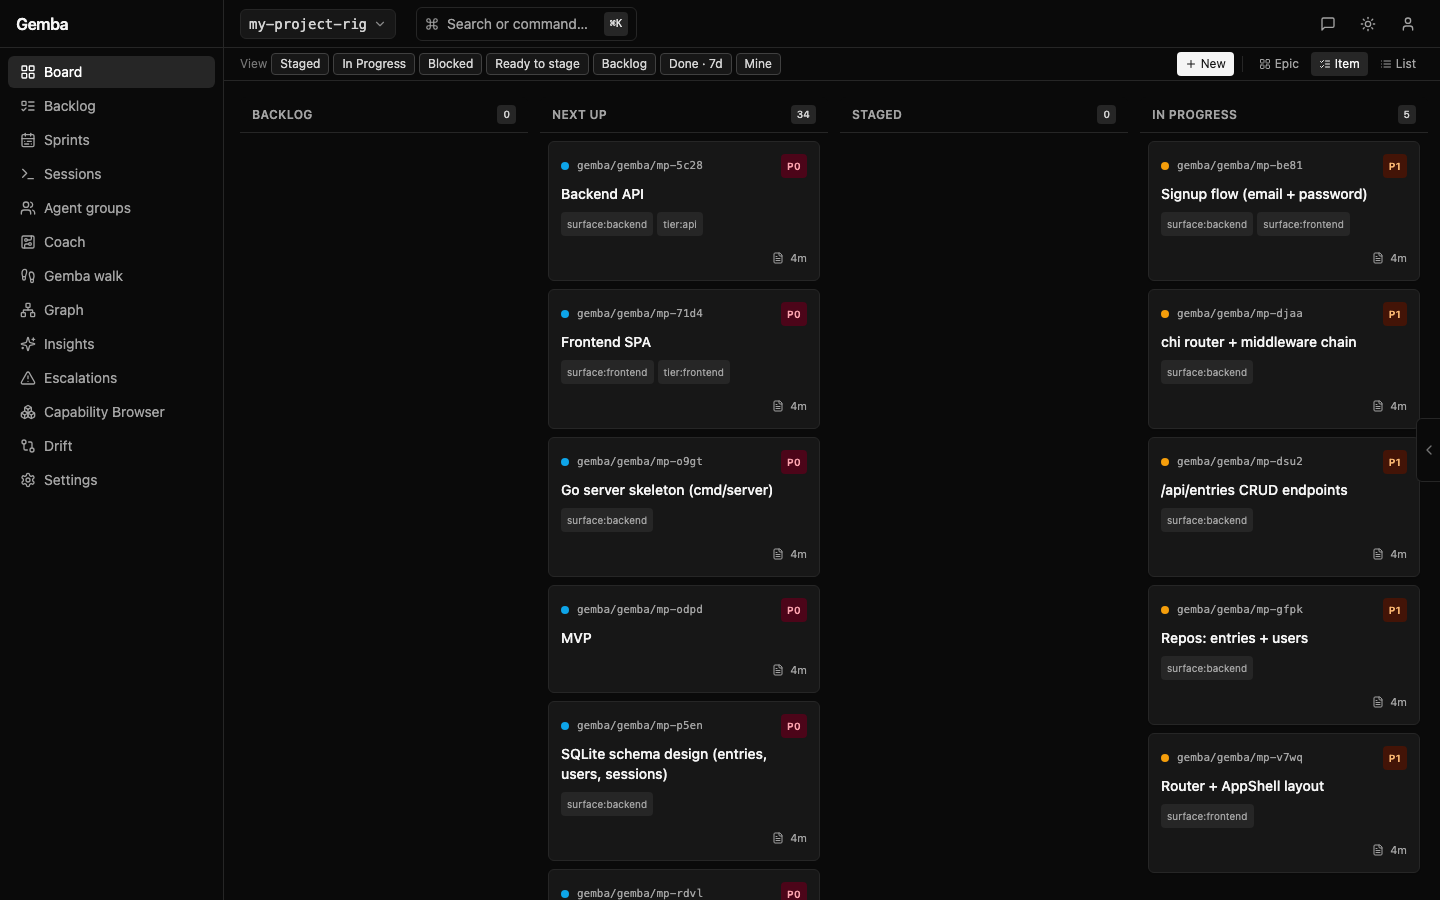
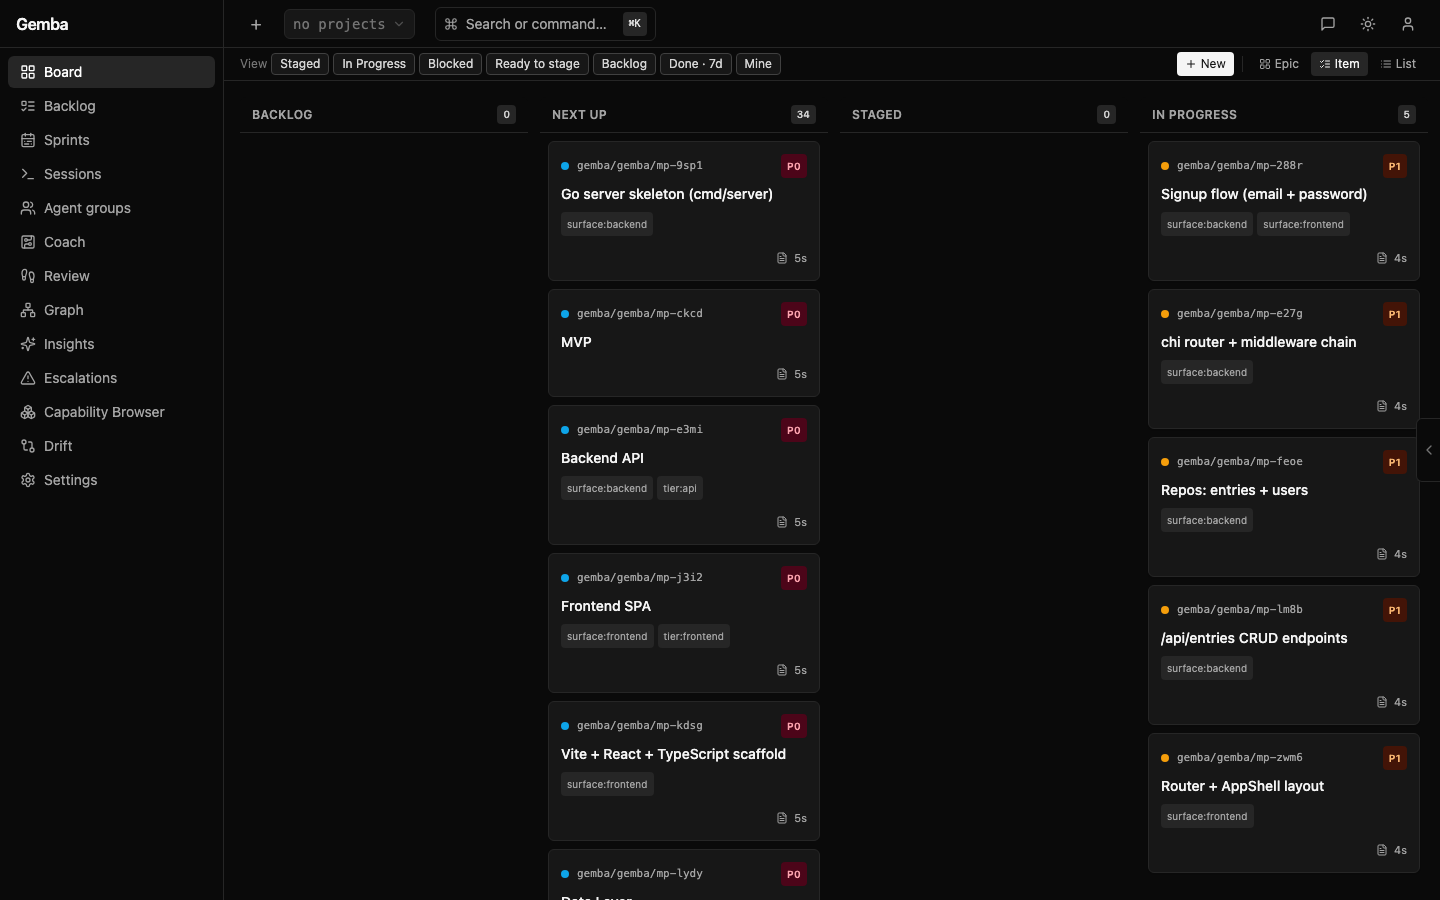
feat(serve+docs): wire WorkPlane as walk WorkItems lister; refresh screenshots
The /walk surface ships with five aggregator sources (escalation,
HITL, gate_failure, bead_filed, bead_closed). serve.go's LiveSources
config wired Plane + HealthBus but left WorkItems nil — so a
WorkPlane-only deployment got an empty walk even when there were
plenty of recently-touched beads worth reviewing. Wire host.WorkPlane()
as the WorkItems lister so bead_filed (state_category in
unstarted/staged) and bead_closed (state_category=completed) sources
fire against any bound WorkPlane.

The README's walk screenshot now lands on a populated agenda (25 items
in QUEUED for the My Project sample) instead of the empty-but-active
state from the previous round. Rebuilt board + graph PNGs are
unchanged in content modulo the timestamp refresh.

Closes the user's "fill the walk" follow-up under gm-57p6.

diff --git a/internal/cli/serve.go b/internal/cli/serve.go
@@ -373,6 +373,12 @@ func runServe(ctx context.Context, cfg config.ServeConfig, b BuildInfo, quiet bo
 	walkSources := walksources.LiveSources(walksources.LiveSourcesConfig{
 		Plane:     host.OrchestrationPlane(),
 		HealthBus: handler.HealthBus(),
+		// Wire the bound WorkPlane as the WorkItems lister so the
+		// walk's bead_filed / bead_closed sources surface recently
+		// touched beads in the agenda. Without this, a WorkPlane-
+		// only deployment (no OrchestrationPlane) gets an empty
+		// walk even when there are 24h-recent beads worth reviewing.
+		WorkItems: host.WorkPlane(),
 		// Witness + Refinery left nil; the no-op default contributes
 		// zero items until an upstream source is wired.
 	})
